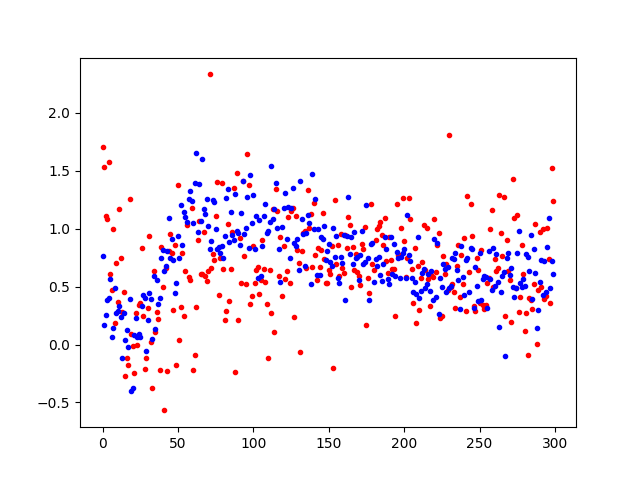
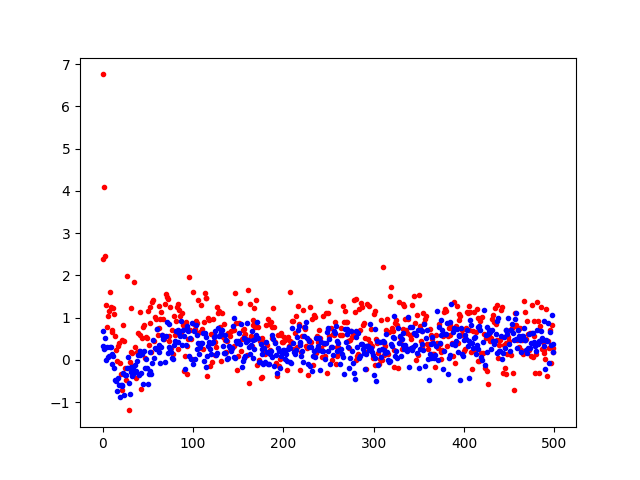
change in size_ts

diff --git a/Chapter5/GAN/gan_test_inv.py b/Chapter5/GAN/gan_test_inv.py
@@ -9,9 +9,8 @@ from data_gen import data_gen_curve, create_TD
 
 batch_size = 32
 input_dim = 32
-nb_ch = 2000
 device = "cpu"
-size_ts= 600
+size_ts= 100
 
 def test_inverse_GAN(size_ts, multichan, time_add=True):
     """montre le graphe de la TS associée à la signature créée par le GAN.
@@ -71,7 +70,7 @@ def test_inverse_GAN(size_ts, multichan, time_add=True):
     A = SA.retrieve_coeff_base(base, par = 1, limits = limits, lrs = lrs, opt = optim, params = params)
     # Recompose signal from A
     recomposed_signal = np.matmul(A.detach().numpy(),base[0].detach().numpy().T)
-    np.save('Inv_results/gan_A_1.npy', recomposed_signal)
+    np.save('Inv_results/gan_A_cos.npy', recomposed_signal)
 
     SA = SeigalAlgo(size_ts, len_base, chan, real_chan, depth, n_recons, size_base, time_chan=True, sig_TS=signature)
     base = SA.define_base(base_name).flip([-2,-1])
@@ -79,7 +78,7 @@ def test_inverse_GAN(size_ts, multichan, time_add=True):
     A_original = SA.retrieve_coeff_base(base, par = 1, limits = limits, lrs = lrs, opt = optim, params = params)
     # Recompose signal from A
     recomposed_signal_original = np.matmul(A_original.detach().numpy(),base[0].detach().numpy().T)
-    np.save('Inv_results/original_A_1.npy', recomposed_signal_original)
+    np.save('Inv_results/original_A_cos.npy', recomposed_signal_original)
     #See the result
 
     if not multichan:

diff --git a/Chapter5/GAN/Algo_Seigal_inverse_path2.py b/Chapter5/GAN/Algo_Seigal_inverse_path2.py
@@ -243,7 +243,7 @@ class SeigalAlgo:
         if opt == "LBFGS":
                 optimizer = optim.LBFGS([A], lr=lrs)
 
-        sched = torch.optim.lr_scheduler.ReduceLROnPlateau(optimizer,patience = 500)
+        sched = torch.optim.lr_scheduler.ReduceLROnPlateau(optimizer,patience = 400)
             #loss = nn.MSELoss()
             #sigTS = sig_TS.view(self.chan, self.chan, self.chan)
             #list_A = []

diff --git a/Chapter5/GAN/gan_test.py b/Chapter5/GAN/gan_test.py
@@ -10,12 +10,12 @@ CUDA = False
 batch_size = 32
 lr_G = 1e-4
 lr_D = 2e-4
-num_epochs = 300
+num_epochs = 500
 loss_function = nn.BCEWithLogitsLoss()
 input_dim = 32
 nb_ch = 2000
 channels = [3,3,3,4,3,7,3]
-size_ts = 600
+size_ts = 100
 
 distr_num = 1
 channel = channels[distr_num]

diff --git a/Chapter5/GAN/data_gen.py b/Chapter5/GAN/data_gen.py
@@ -1,14 +1,14 @@
 import torch
 from torch import nn
 import math
-#import iisignature
+import iisignature
 import numpy as np
 from random import random, randint
 import matplotlib.pyplot as plt
 
 sig_level = 3
 num_signs = 512
-T = 10
+T = 5
 time_add = True
 
 
